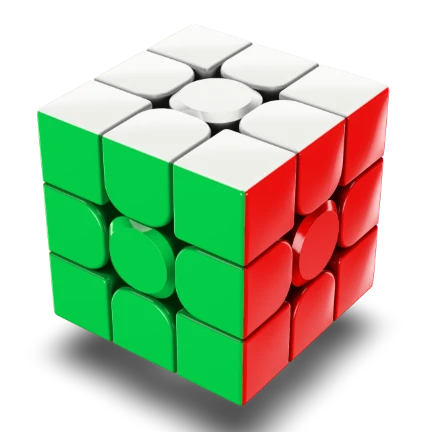
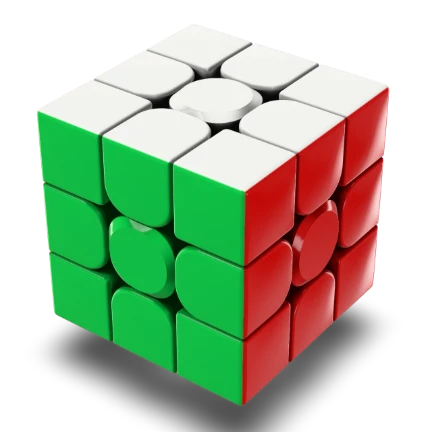
Light Stickerless v2 with the k2 studio
k2 replaces Candidate Y's studio, approved after the lighting review on
exp/y-lighting. Only the lighting changes: the room, the key softbox, the
reflection panels and the key light's strength. Geometry, materials,
shaders, colours and puzzle mechanics are untouched.

- The surround is a neutral mid-grey (#5a5a5a at radiance 3), not dark grey.
- The key softbox is radiance 9, and the key light runs at 1.5 times the
  softbox's own moment, so the key does most of the diffuse work.
- The upper-right and low-right softboxes are smaller (3.6) and at 55%.
- The low-left softbox, which put a peach wash on faces tipped toward the
  viewer, becomes a broad dim fill (7 x 3, radiance 1.6).
- The overhead sheet becomes a dim graded strip (8 x 3, radiance 2.2,
  grade 0.8).
- The low card and the two rim strips stay as they were.

Gloss renders pixel-identically to the experiment's ?ylight=k2 across
matched scenes. Classic Stickered, Stickerless v1 and Matte are
pixel-identical to 861524a.

The Settings preview of v2, the v2 style captures and the v2 selector
shots are rendered again from this build. The README and the capture
scripts name the k2 lighting.

diff --git a/src/components/cube/stickerless2/studio.ts b/src/components/cube/stickerless2/studio.ts
@@ -1,14 +1,15 @@
 /**
- * Stickerless v2's studio, Y (approved at c3baeaa): a product set with its own
- * room, key softbox and reflection panels in place of production's Stickerless
- * studio, plus near-field transport: each surface a turn opens sees the other
- * layers as geometry (they hide part of the studio and cast the key's shadow)
- * and mirrors them in its gloss. It is built once per tier into the same two
+ * Stickerless v2's studio, k2 (Y's layout, restrained; approved after the
+ * lighting review on exp/y-lighting): a product set with its own room, key
+ * softbox and reflection panels in place of production's Stickerless studio,
+ * plus near-field transport: each surface a turn opens sees the other layers
+ * as geometry (they hide part of the studio and cast the key's shadow) and
+ * mirrors them in its gloss. It is built once per tier into the same two
  * prefiltered maps as production, so it costs the same per frame.
  *
- * The other studios compared during the review, and the lighting review
- * itself, are kept on the development branch (stickerless-v2-phase01), not
- * here.
+ * The other studios compared during the reviews, and the reviews themselves,
+ * are kept on the development branches (stickerless-v2-phase01,
+ * exp/y-lighting), not here.
  *
  * Panels are placed in the studio's world frame, from the home view: at home
  * the camera looks from (0.50, 0.54, 0.67); U mirrors toward up-back-left, F
@@ -39,6 +40,8 @@ export interface StudioV2 {
   readonly innerLight: number;
   /** The key softbox (home camera frame) in place of production's window; it also drives the key light. */
   readonly key: Panel;
+  /** Gain on the key light's intensity over the key softbox's own (1: the softbox's first moment). */
+  readonly keyLight: number;
   /** Whether production's fill strips are part of the studio. */
   readonly fill: boolean;
   /** Exposure of the v2 plastic before tone mapping (the stage's own exposure is unchanged). */
@@ -55,37 +58,35 @@ function onCamera(panel: Panel): Panel {
 }
 
 /**
- * The studio: a product set with a dark surround, all emitters neutral white.
- * Four soft-edged softboxes ring the lens about 50° off the view axis (the key
- * upper left, which also drives the key light, a little the strongest), so a
- * face turned any way is lit from at least two of them and the cube reads
- * evenly bright whichever way it is held, as in a product photograph. Faces
- * seen square-on mirror the dark surround around the lens and keep their depth
- * of colour; the softboxes are small and bright enough that what does mirror
- * them (rims, curved lobes, faces at an angle) shows a defined gloss rather
- * than a grey wash. An overhead box behind lights the faces turned away (the
- * plastic a turn exposes mirrors them), two strips behind give the silhouette
- * its rim lines, and a dim card low right gives the right-hand faces a soft
- * sheen at grazing angles; the left low back is flagged dark, so the left
- * faces stay deep.
+ * The studio: a product set in a mid-grey surround, all emitters neutral white.
+ * The key softbox upper left, which also drives the key light, does most of
+ * the diffuse work, so lit faces read clean without a ring of equal
+ * reflections. Two smaller, dimmer softboxes upper right and low right give
+ * the faces turned that way a defined gloss, and a broad dim fill low left
+ * lifts the faces tipped toward the viewer without a coloured wash. A dim,
+ * graded strip overhead behind lights the faces turned away (the plastic a
+ * turn exposes mirrors it) without a pale sheet on the top face, two strips
+ * behind give the silhouette its rim lines, and a dim card low right gives the
+ * right-hand faces a soft sheen at grazing angles.
  */
-const PRODUCT_ROOM: Room = { colors: ['#2c2c2c', '#2c2c2c', '#3a3a3a', '#303030', '#2c2c2c', '#262626'], radiance: 1 };
-const PRODUCT_KEY: Panel = { position: [-6, 4.5, 4.5], size: [4.5, 4.5], radiance: 9.5, tint: WHITE, falloff: 0.35 };
+const PRODUCT_ROOM: Room = { colors: ['#5a5a5a', '#5a5a5a', '#5a5a5a', '#5a5a5a', '#5a5a5a', '#5a5a5a'], radiance: 3 };
+const PRODUCT_KEY: Panel = { position: [-6, 4.5, 4.5], size: [4.5, 4.5], radiance: 9, tint: WHITE, falloff: 0.35 };
 const PRODUCT_PANELS: readonly Panel[] = [
-  onCamera({ position: [6, 4.5, 4.5], size: [4.5, 4.5], radiance: 7.5, tint: WHITE, falloff: 0.35 }),
-  onCamera({ position: [-6, -4.5, 4.5], size: [4.5, 4.5], radiance: 8.5, tint: WHITE, falloff: 0.35 }),
-  onCamera({ position: [6, -4.5, 4.5], size: [4.5, 4.5], radiance: 9, tint: WHITE, falloff: 0.35 }),
-  onCamera({ position: [0, 7, -6], size: [11, 4], radiance: 7, tint: WHITE, falloff: 0.4, grade: 0.4 }),
+  onCamera({ position: [6, 4.5, 4.5], size: [3.6, 3.6], radiance: 4.125, tint: WHITE, falloff: 0.45 }),
+  onCamera({ position: [6, -4.5, 4.5], size: [3.6, 3.6], radiance: 4.95, tint: WHITE, falloff: 0.45 }),
+  onCamera({ position: [0, 7, -6], size: [8, 3], radiance: 2.2, tint: WHITE, falloff: 0.55, grade: 0.8 }),
   onCamera({ position: [7, -5, -6], size: [6, 6], radiance: 0.8, tint: WHITE, falloff: 0.7, grade: 0.7 }),
   onCamera({ position: [-7, 1, -5], size: [1.2, 10], radiance: 7, tint: WHITE, falloff: 0.3 }),
   onCamera({ position: [7, 1, -5], size: [1.2, 10], radiance: 7, tint: WHITE, falloff: 0.3 }),
+  onCamera({ position: [-5, -6, 4], size: [7, 3], radiance: 1.6, tint: WHITE, falloff: 0.7 }),
 ];
 
-/** Y, the approved v2 lighting. */
+/** k2, the approved v2 lighting. */
 export const V2_STUDIO: StudioV2 = {
   room: PRODUCT_ROOM,
   panels: PRODUCT_PANELS,
   key: PRODUCT_KEY,
+  keyLight: 1.5,
   fill: false,
   innerLight: 1,
   exposure: 1.15,

diff --git a/tests/unit/stickerless-v2.test.ts b/tests/unit/stickerless-v2.test.ts
@@ -20,7 +20,7 @@ import { DIAGONAL, SCALES, scaleLayout, scaleRows, scalesGlsl, shaftClearance } 
 import { GAPS, gapOcclusion } from '../../src/components/cube/stickerless2/gaps';
 import { FACE_COLORS } from '../../src/core/puzzle/colors';
 import { V2_STUDIO, fixedStudioDefines } from '../../src/components/cube/stickerless2/studio';
-import { PRODUCTION_ROOM, stickerlessWindowIntensity, stickerlessWindowPosition } from '../../src/components/stage/stickerlessEnvironment';
+import { PRODUCTION_ROOM, fromHomeCamera, stickerlessWindowIntensity, stickerlessWindowPosition } from '../../src/components/stage/stickerlessEnvironment';
 import { CAP_DEPTH, CUBE_EDGE_RADIUS, INNER_RADIUS, PILLOW, RIM_RADIUS } from '../../src/components/cube/pieceGeometry';
 import { createStickerlessResources } from '../../src/components/cube/stickerlessResources';
 
@@ -420,10 +420,11 @@ describe('Stickerless v2 assembly seam', () => {
 });
 
 describe('Stickerless v2 studios', () => {
-  it('lights Gloss with Y, the approved lighting, its values compiled in', () => {
+  it('lights Gloss with k2, the approved lighting, its values compiled in', () => {
     expect(V2_STUDIO.transport).toEqual({ specular: true, bounce: false, internal: true, sheen: false });
     expect(V2_STUDIO.exposure).toBe(1.15);
     expect(V2_STUDIO.innerLight).toBe(1);
+    expect(V2_STUDIO.keyLight).toBe(1.5);
     // Constants: none of the bounce or gain code.
     const res = createStickerlessV2Resources('high', 'gloss');
     for (const material of res.materials) {
@@ -432,7 +433,7 @@ describe('Stickerless v2 studios', () => {
       expect(material.customProgramCacheKey()).toBe('cubelab-v2-piece-detailed-studio-y-strong-hybrid');
     }
     res.dispose();
-    // Matte has no studio (its lighting is production's matte lighting): none of Y's values or transport.
+    // Matte has no studio (its lighting is production's matte lighting): none of k2's values or transport.
     const matte = createStickerlessV2Resources('high', 'matte');
     for (const material of matte.materials) {
       for (const define of ['V2_TRANSPORT', 'V2_TRANSPORT_FLAGS', 'V2_EXPOSURE_FIXED', 'V2_INNER_FIXED']) expect(material.defines).not.toHaveProperty(define);
@@ -480,20 +481,23 @@ describe('Stickerless v2 studios', () => {
     expect(stickerlessWindowPosition().length()).toBeCloseTo(Math.sqrt(d2), 10);
   });
 
-  it('builds Y on a neutral dark studio of white softboxes, without the rejected glint strip', () => {
+  it('builds k2 on a neutral grey studio of white softboxes, without the low-left ring softbox', () => {
     const studio = V2_STUDIO;
     expect(studio.fill).toBe(false);
     expect(studio.key.tint).toBe('#ffffff');
+    expect(studio.key.radiance).toBe(9);
     for (const panel of studio.panels) expect(panel.tint).toBe('#ffffff');
-    // Y as approved (c3baeaa): eight panels; the rejected glint strip (Y refined) is not among them.
+    // k2 as approved: seven panels; the low-left softbox of Y's ring (the peach wash) is a broad dim fill instead.
     expect(studio.panels).toHaveLength(7);
-    // The room is a neutral dark surround: every wall grey.
-    for (const color of studio.room.colors) {
-      const c = new THREE.Color(color);
-      expect(c.r).toBe(c.g);
-      expect(c.g).toBe(c.b);
-      expect(c.r).toBeLessThan(0.05);
-    }
+    const lowFill = fromHomeCamera([-5, -6, 4]);
+    expect(studio.panels.some((p) => new THREE.Vector3(...p.position).distanceTo(fromHomeCamera([-6, -4.5, 4.5])) < 1e-9)).toBe(false);
+    expect(studio.panels.at(-1)).toMatchObject({ size: [7, 3], radiance: 1.6, falloff: 0.7 });
+    expect(new THREE.Vector3(...studio.panels.at(-1)!.position).distanceTo(lowFill)).toBeLessThan(1e-9);
+    // The overhead sheet is a dim graded strip.
+    expect(studio.panels.filter((p) => p.grade === 0.8)).toEqual([expect.objectContaining({ size: [8, 3], radiance: 2.2 })]);
+    // The room is a neutral mid-grey surround: every wall the same grey.
+    expect(studio.room.radiance).toBe(3);
+    for (const color of studio.room.colors) expect(color).toBe('#5a5a5a');
   });
 
   it('places every panel between the cube and the room walls, emitting light', () => {

diff --git a/src/components/stage/StageCanvas.tsx b/src/components/stage/StageCanvas.tsx
@@ -223,7 +223,7 @@ function StudioEnvironment({ size, intensity, reflections, hybrid, hybridSize }:
 function Lighting({ look, reflections }: { look: StageLook; reflections: StyleReflections }) {
   // `lookPreparation` compiles each look under this same rig: keep the two in step.
   const { hybrid, shadows, sceneSize, stickerlessSize } = lookLighting(look);
-  // v2's studio brings its own key softbox, which the key light matches (production's window otherwise).
+  // v2's studio brings its own key softbox, which the key light matches at its own gain (production's window otherwise).
   const key = STICKERLESS_RENDERER === 'v2' ? V2_STUDIO.key : undefined;
   return (
     <>
@@ -247,7 +247,7 @@ function Lighting({ look, reflections }: { look: StageLook; reflections: StyleRe
       <directionalLight visible={!hybrid} position={[6.5, 2.5, 4.5]} intensity={1.05} color="#f4f6ff" />
       {hybrid && <directionalLight
         position={stickerlessWindowPosition(key)}
-        intensity={stickerlessWindowIntensity(key)}
+        intensity={stickerlessWindowIntensity(key) * (key ? V2_STUDIO.keyLight : 1)}
         color={key?.tint ?? '#fffaf0'}
         castShadow={shadows}
         shadow-mapSize={[2048, 2048]}

diff --git a/README.md b/README.md
@@ -18,7 +18,7 @@ bundle, puzzle definitions, fonts, audio, and scramble worker are cached for off
 | ![Macro](artifacts/after/cube-macro.png) | ![M slice mid-turn](artifacts/after/cube-midturn-M.png) | ![Phone](artifacts/after/mobile-390-scrambled.png) |
 
 The studio opens with Classic Stickered, shown above. Premium Stickerless is one setting away, drawn by
-its v1 renderer; its v2 renderer (Candidate Y) is opt-in with `?stickerless=v2` (see [Rendering](#rendering)).
+its v1 renderer; its v2 renderer (Candidate Y with the k2 lighting) is opt-in with `?stickerless=v2` (see [Rendering](#rendering)).
 
 ## Quick start
 
@@ -273,13 +273,13 @@ Stickered is the default:
 | Colour | Thin vinyl stickers shaped like their piece (round centres, D-shaped edges, square corners) with a black border, four print batches per colour | The plastic itself: a shader (`pieceMaterial.ts`) gives each face a coloured cap over black mechanism, meeting on the cube edges' 45° lines, with a drawn parting line; satin sheen under a clear coat, its own reflector-card reflections, per-piece finish variation |
 | Signature | Black frame around every tile | GAN-style cuts where pieces meet the face centre: round centre caps and rounded edge ends, crisp near-square inner corners on the corner pieces, black openings at the diagonals |
 
-| Classic Stickered (default) | Premium Stickerless, v1 (default renderer) | Premium Stickerless, v2: Candidate Y (opt-in) |
+| Classic Stickered (default) | Premium Stickerless, v1 (default renderer) | Premium Stickerless, v2: Candidate Y, k2 lighting (opt-in) |
 | --- | --- | --- |
-| ![Classic Stickered](artifacts/styles/stickered/scrambled.png) | ![Premium Stickerless v1](artifacts/styles/stickerless/scrambled.png) | ![Premium Stickerless v2, Candidate Y](artifacts/styles/stickerless-v2/scrambled.png) |
+| ![Classic Stickered](artifacts/styles/stickered/scrambled.png) | ![Premium Stickerless v1](artifacts/styles/stickerless/scrambled.png) | ![Premium Stickerless v2, Candidate Y with the k2 lighting](artifacts/styles/stickerless-v2/scrambled.png) |
 
 **Two Stickerless renderers.** Premium Stickerless is drawn by **v1** (`pieceMaterial.ts`,
 `stickerlessResources.ts`) unless the address carries `?stickerless=v2`; that parameter selects
-**v2, Candidate Y** (`src/components/cube/stickerless2/`) for that page load only. v2 is not the
+**v2, Candidate Y with the k2 lighting** (`src/components/cube/stickerless2/`) for that page load only. v2 is not the
 default and nothing saves it: without the parameter Premium Stickerless is v1 again. v2 keeps v1's
 piece shapes (pillowed faces, rounded cube edges, the Gloss centre cap), its exterior finish and its
 white, and changes what light and a turn reveal: its own product studio (key softbox and reflection
